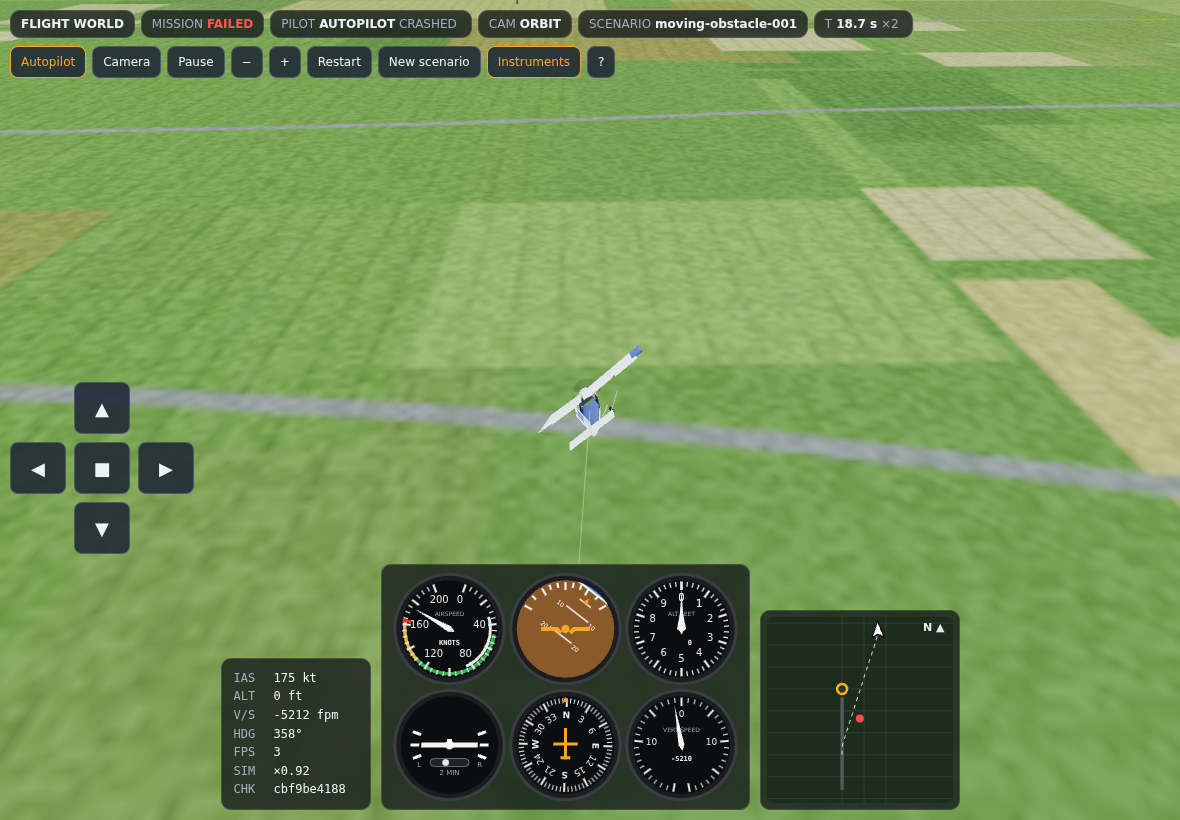
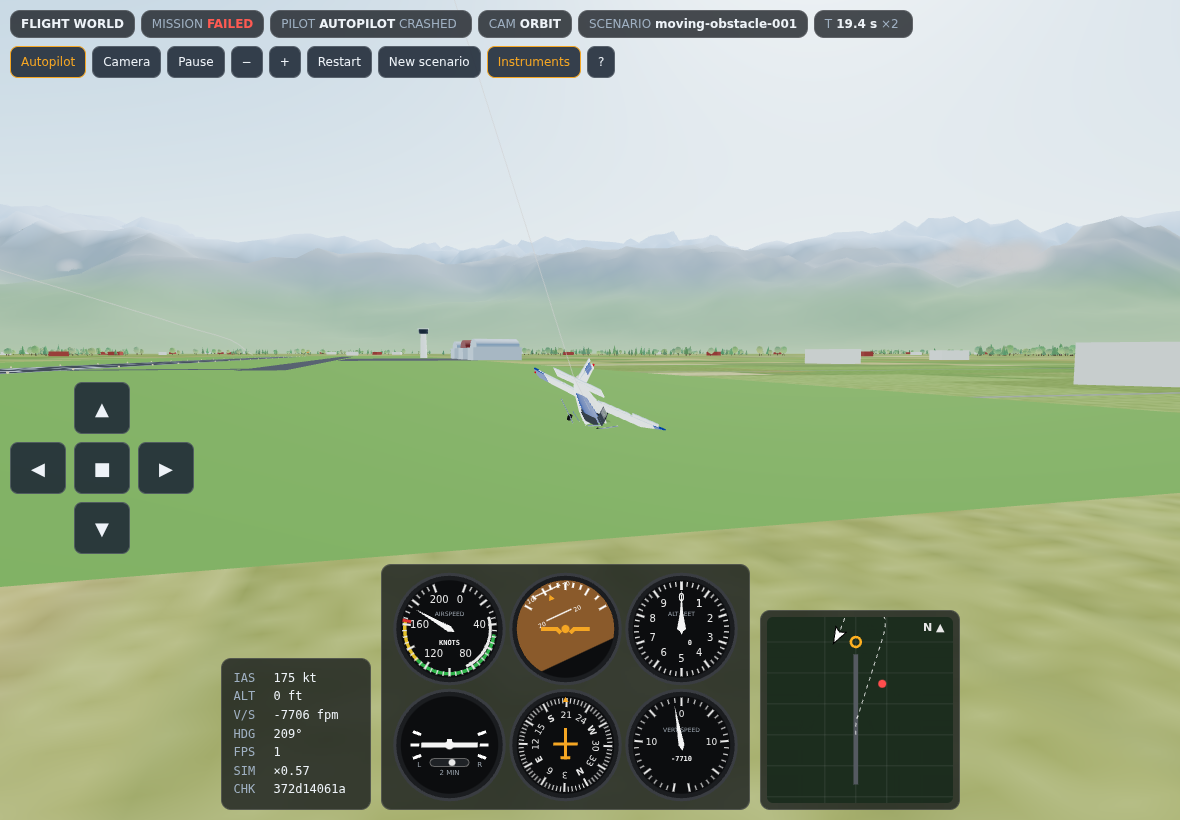
fix(qa): manual flight no longer spirals into the ground after releasing a turn
The IntentController was open loop: HOLD left the bank from the previous
turn in place and commanded full nose-down whenever above 70 m, so letting go
of the yoke produced a descending spiral (found by the touch-pad controls
matrix). Sensors now report attitude (pitch, roll, vertical speed) as an
optional Observation field, and the controller stabilises intents: turns fly
a fixed bank at constant height, releasing rolls wings level, HOLD keeps the
height it began at (floor 30 m), CLIMB/DESCEND fly bounded vertical speeds.
Producers without attitude keep the original mapping.

tests/intent-controller.test.ts covers release, height hold and an arbitrary
manual sequence staying airborne.

Claude-Session: https://claude.ai/code/session_01RqNu9e1nvBPs3AALUkYfwx

diff --git a/packages/controller/src/index.ts b/packages/controller/src/index.ts
@@ -1,16 +1,43 @@
 import type { AircraftControls, Observation, PilotIntent } from "@flight/protocol";
 const clamp=(x:number,a=-1,b=1)=>Math.max(a,Math.min(b,x));
+/**
+ * Deterministic intent → control-surface mapping (the AI and the pilot never touch surfaces directly).
+ *
+ * With attitude in the observation the intents are stabilised, like a fly-by-wire light aircraft:
+ * turns fly a fixed bank and hold height, releasing a turn rolls the wings level, HOLD keeps the height the
+ * aircraft had when HOLD began (never below HOLD_FLOOR_M), CLIMB/DESCEND fly a target vertical speed.
+ * Without attitude (older producers) it falls back to the original open-loop mapping.
+ */
+export const HOLD_FLOOR_M=30;
+const TURN_BANK=.5,CLIMB_VS=6,DESCEND_VS=-4,ABORT_VS=8,MAX_PITCH=.35;
 export class IntentController {
+ #last?:PilotIntent;#holdAltitude=70;
  controls(intent:PilotIntent,o:Observation):AircraftControls{
-  const base={aileron:0,elevator:0,rudder:0,throttle:.72};
-  if(intent==="TURN_LEFT")return {...base,aileron:-.55,rudder:-.08};
-  if(intent==="TURN_RIGHT")return {...base,aileron:.55,rudder:.08};
-  if(intent==="CLIMB")return {...base,elevator:.5,throttle:.82};
-  if(intent==="DESCEND")return {...base,elevator:-.35};
-  if(intent==="SLOW")return {...base,throttle:.35};
-  if(intent==="ABORT")return {...base,elevator:.25,throttle:.65};
-  return {...base,elevator:clamp((70-o.altitude)*.015)};
+  if(!o.attitude)return legacy(intent,o);
+  // Height to keep for level intents: captured when entering a level intent from a non-level one.
+  const level=intent==="HOLD"||intent==="TURN_LEFT"||intent==="TURN_RIGHT"||intent==="SLOW"||intent==="REROUTE";
+  const wasLevel=this.#last==="HOLD"||this.#last==="TURN_LEFT"||this.#last==="TURN_RIGHT"||this.#last==="SLOW"||this.#last==="REROUTE";
+  if(level&&(!wasLevel||this.#last===undefined))this.#holdAltitude=Math.max(HOLD_FLOOR_M,o.altitude);
+  this.#last=intent;
+  const {pitch,roll}=o.attitude;
+  const bank=intent==="TURN_LEFT"?-TURN_BANK:intent==="TURN_RIGHT"||intent==="REROUTE"?TURN_BANK:0;
+  const aileron=clamp(3*(bank-roll));
+  const vs=intent==="CLIMB"?CLIMB_VS:intent==="DESCEND"?DESCEND_VS:intent==="ABORT"?ABORT_VS:clamp(.35*(this.#holdAltitude-o.altitude),-4,4);
+  const pitchTarget=clamp(Math.asin(clamp(vs/Math.max(o.speed,12),-.9,.9)),-MAX_PITCH,MAX_PITCH);
+  const elevator=o.speed<12&&o.altitude<3?0:clamp(4*(pitchTarget-pitch));
+  const throttle=intent==="CLIMB"?.82:intent==="SLOW"?.35:intent==="ABORT"?.9:.72;
+  return {aileron,elevator,rudder:aileron*.15,throttle};
  }
+}
+function legacy(intent:PilotIntent,o:Observation):AircraftControls{
+ const base={aileron:0,elevator:0,rudder:0,throttle:.72};
+ if(intent==="TURN_LEFT")return {...base,aileron:-.55,rudder:-.08};
+ if(intent==="TURN_RIGHT")return {...base,aileron:.55,rudder:.08};
+ if(intent==="CLIMB")return {...base,elevator:.5,throttle:.82};
+ if(intent==="DESCEND")return {...base,elevator:-.35};
+ if(intent==="SLOW")return {...base,throttle:.35};
+ if(intent==="ABORT")return {...base,elevator:.25,throttle:.65};
+ return {...base,elevator:clamp((70-o.altitude)*.015)};
 }
 
 export { autopilotControls, autopilotTarget, DEFAULT_AUTOPILOT } from "./autopilot.ts";

diff --git a/tests/intent-controller.test.ts b/tests/intent-controller.test.ts
@@ -1,0 +1,30 @@
+import {expect,test} from "bun:test";
+import {DeterministicSimulation,defaultScenario} from "@flight/simulation";
+import {IntentController,autopilotControls,HOLD_FLOOR_M} from "@flight/controller";
+import {PerfectSensorSuite} from "@flight/sensors";
+import type {PilotIntent} from "@flight/protocol";
+// Fly the autopilot to cruise, then hand over to a scripted manual sequence.
+function flight(script:[PilotIntent,number][]){
+ const sim=new DeterministicSimulation(),c=new IntentController(),s=new PerfectSensorSuite();let w=sim.reset(defaultScenario(1n));
+ for(let i=0;i<120*8;i++)w=sim.step(autopilotControls(w));
+ const log:{intent:PilotIntent;y:number;roll:number;vy:number;heading:number;crashed:boolean}[]=[];
+ for(const [intent,seconds] of script)for(let i=0;i<seconds*120;i++){w=sim.step(c.controls(intent,s.observe(w)));log.push({intent,y:w.aircraft.position.y,roll:w.aircraft.roll,vy:w.aircraft.velocity.y,heading:w.aircraft.heading,crashed:w.aircraft.crashed})}
+ return log;
+}
+test("releasing a turn rolls the wings level and stops the turn",()=>{
+ const l=flight([["TURN_LEFT",4],["HOLD",6]]),end=l.at(-1)!,before=l[l.length-121]!;
+ expect(Math.abs(end.roll)).toBeLessThan(.03);expect(Math.abs(end.heading-before.heading)).toBeLessThan(.02);expect(end.crashed).toBe(false);
+});
+test("HOLD keeps the height it started at instead of diving to a fixed altitude",()=>{
+ const l=flight([["CLIMB",12],["HOLD",15]]),start=l.find(x=>x.intent==="HOLD")!,hold=l.filter(x=>x.intent==="HOLD");
+ expect(start.y).toBeGreaterThan(120);expect(Math.abs(hold.at(-1)!.y-start.y)).toBeLessThan(6);expect(Math.min(...hold.map(x=>x.vy))).toBeGreaterThan(-6);
+});
+test("turns hold height; CLIMB/DESCEND fly a bounded vertical speed",()=>{
+ const l=flight([["TURN_RIGHT",6],["CLIMB",5],["DESCEND",5]]),t=l.filter(x=>x.intent==="TURN_RIGHT");
+ expect(Math.abs(t.at(-1)!.y-t[0]!.y)).toBeLessThan(8);expect(t.at(-1)!.heading).toBeGreaterThan(t[0]!.heading+.5);
+ expect(Math.max(...l.filter(x=>x.intent==="CLIMB").map(x=>x.vy))).toBeLessThan(9);expect(Math.min(...l.filter(x=>x.intent==="DESCEND").map(x=>x.vy))).toBeGreaterThan(-7);
+});
+test("any manual sequence of intents stays airborne (no spiral dive after release)",()=>{
+ const intents:PilotIntent[]=["CLIMB","TURN_LEFT","HOLD","TURN_RIGHT","SLOW","DESCEND","HOLD","TURN_LEFT","DESCEND","HOLD"];
+ const l=flight(intents.map(i=>[i,4] as [PilotIntent,number]));expect(l.some(x=>x.crashed)).toBe(false);expect(Math.min(...l.map(x=>x.y))).toBeGreaterThan(HOLD_FLOOR_M-10);
+});

diff --git a/tests/simulator-worker.test.ts b/tests/simulator-worker.test.ts
@@ -18,7 +18,7 @@ test("worker autopilot lands and matches a direct deterministic run bit for bit"
 test("seeded scenario selection reaches the worker",async()=>{const {last,chk}=await fly("seeded","33"),ref=await direct(scenarioForSeed(33n));expect(last.scenarioId).toBe("seeded-33");expect(chk.checksum).toBe(ref.chk)},30_000);
 test("manual intents fly the aircraft and pause freezes time",async()=>{const {w,inbox,next}=worker();try{
  w.postMessage({type:"RESET",seed:"1"});await next("WORLD");w.postMessage({type:"SET_PILOT",pilot:"MANUAL"});w.postMessage({type:"SET_INTENT",intent:"CLIMB"});
- let from=inbox.length;w.postMessage({type:"STEP",ticks:240,seq:1});const a=await next("WORLD",from);expect(a.pilot).toBe("MANUAL");expect(a.intent).toBe("CLIMB");expect(a.world.aircraft.position.y).toBeGreaterThan(5);expect(a.controls.elevator).toBeGreaterThan(0);
+ let from=inbox.length;w.postMessage({type:"STEP",ticks:240,seq:1});const a=await next("WORLD",from);expect(a.pilot).toBe("MANUAL");expect(a.intent).toBe("CLIMB");expect(a.world.aircraft.position.y).toBeGreaterThan(5);expect(a.world.aircraft.velocity.y).toBeGreaterThan(3);
  w.postMessage({type:"PAUSE"});from=inbox.length;w.postMessage({type:"STEP",ticks:240,seq:2});const b=await next("WORLD",from+1);expect(b.paused).toBe(true);expect(b.world.tick).toBe(a.world.tick);
 }finally{w.terminate()}});
 test("bad commands are rejected with ERROR and do not break the worker",async()=>{const {w,inbox,next}=worker();try{

diff --git a/packages/sensors/src/index.ts b/packages/sensors/src/index.ts
@@ -9,6 +9,6 @@ export class PerfectSensorSuite {
    const dx=obstacle.position.x-a.position.x,dz=obstacle.position.z-a.position.z;
    nearestObstacle={distance:Math.hypot(dx,obstacle.position.y-a.position.y,dz),bearing:wrap(Math.atan2(dx,dz)-a.heading)};
   }
-  return {tick:w.tick,speed,altitude:a.position.y,heading:a.heading,objectivePhase:w.objective.phase,nearestObstacle};
+  return {tick:w.tick,speed,altitude:a.position.y,heading:a.heading,objectivePhase:w.objective.phase,nearestObstacle,attitude:{pitch:a.pitch,roll:a.roll,verticalSpeed:a.velocity.y}};
  }
 }

diff --git a/packages/protocol/src/index.ts b/packages/protocol/src/index.ts
@@ -59,6 +59,12 @@ export interface Observation {
     readonly distance: number;
     readonly bearing: number;
   };
+  /** Aircraft attitude (radians) and vertical speed (m/s); lets the controller stabilise intents. */
+  readonly attitude?: {
+    readonly pitch: number;
+    readonly roll: number;
+    readonly verticalSpeed: number;
+  };
 }
 
 export type PilotIntent =
